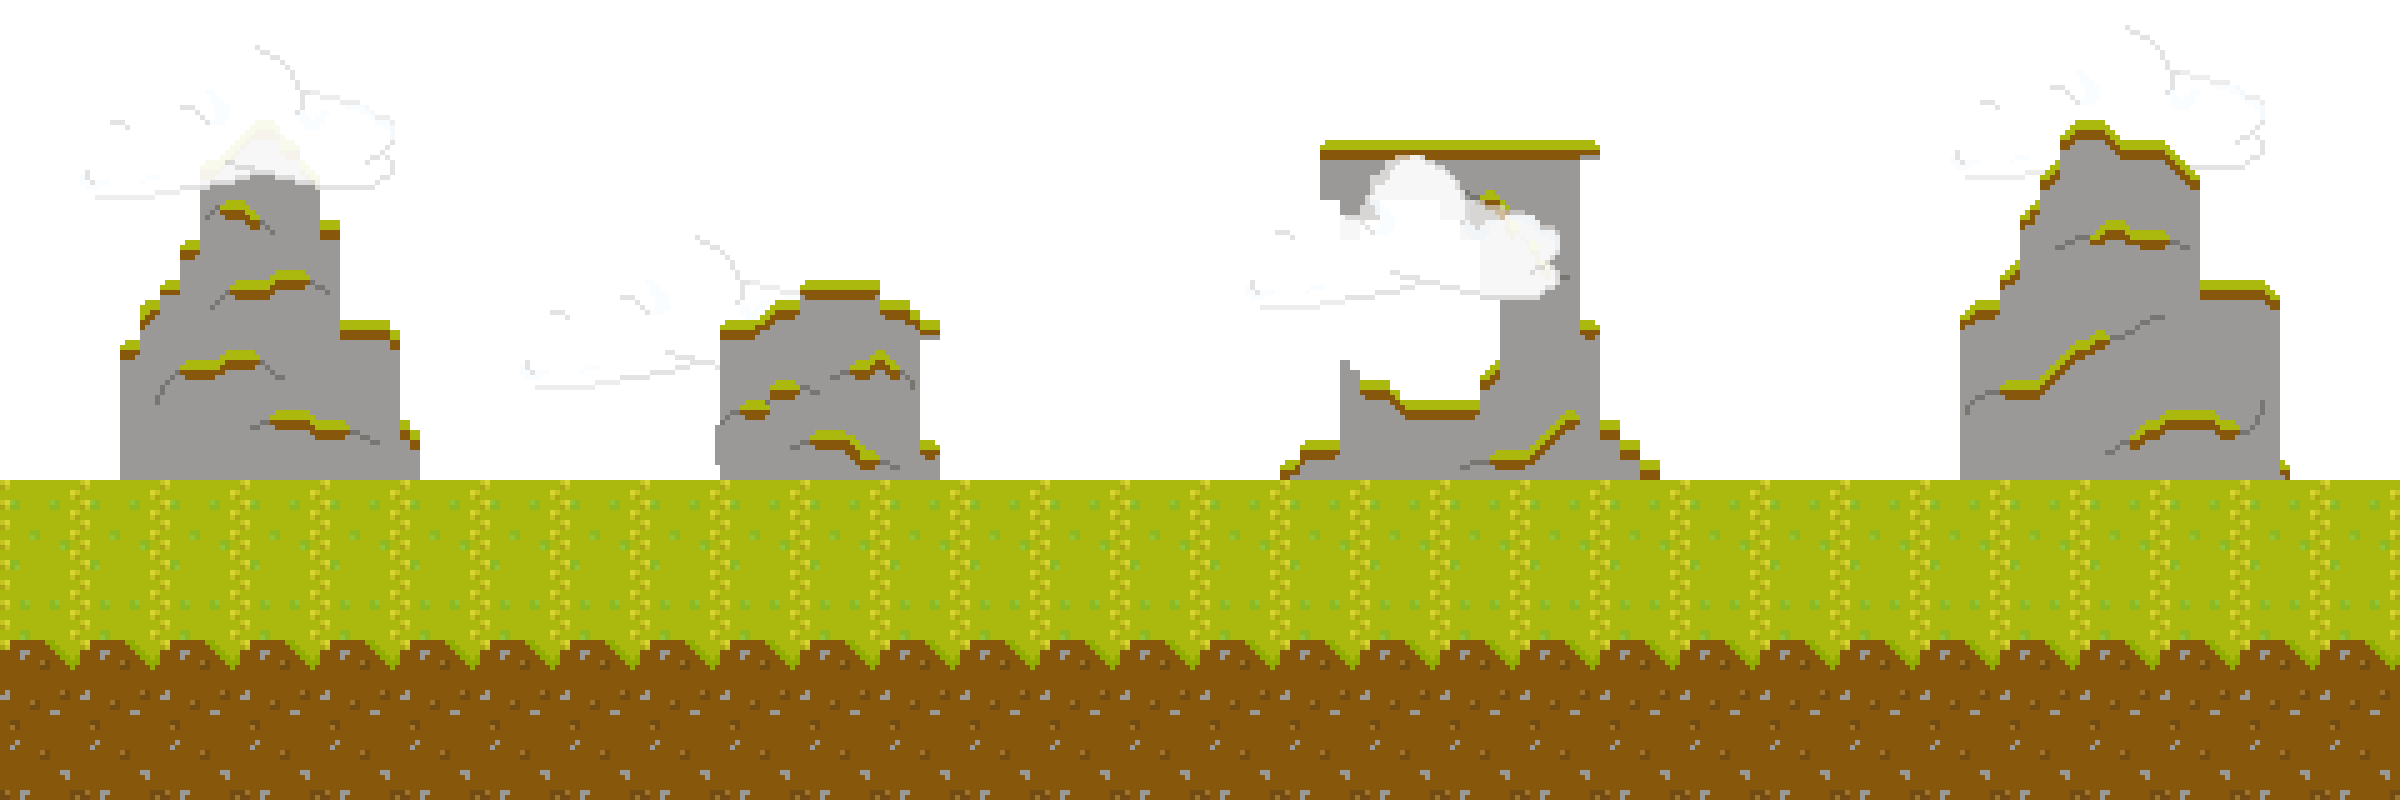
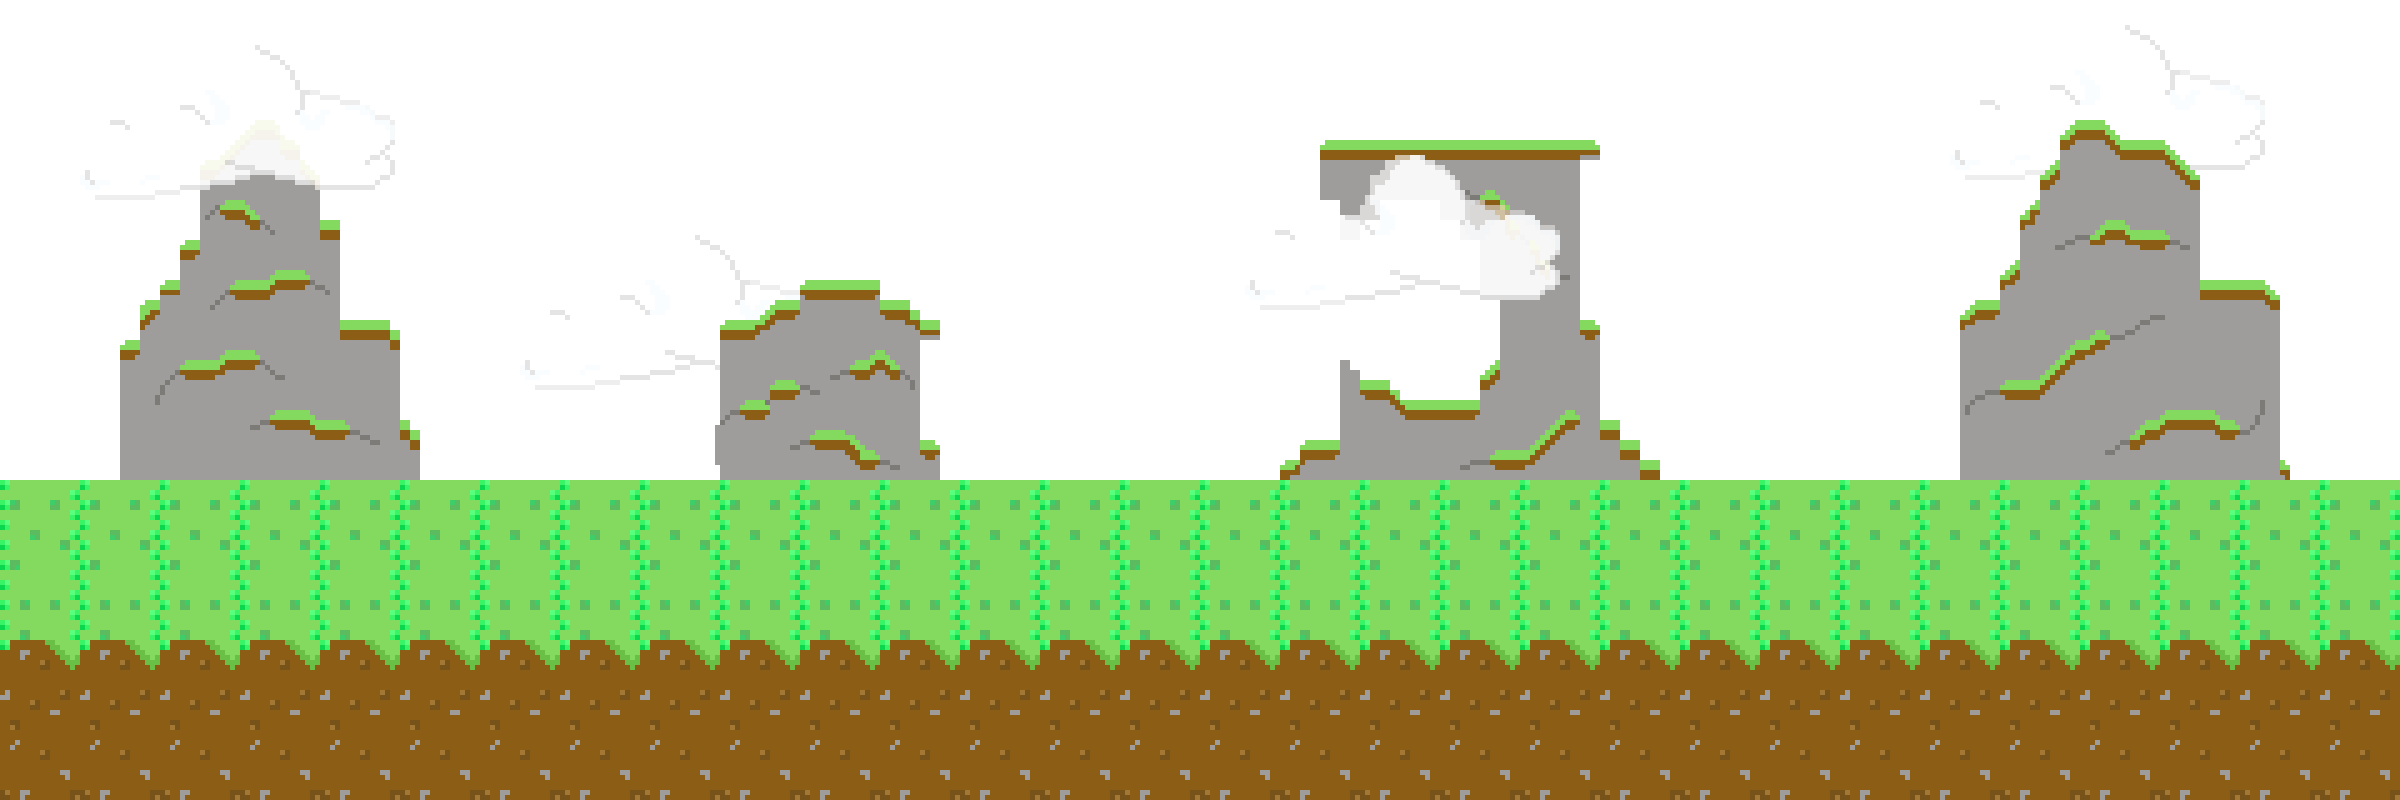
Toques finales
Añadido enemigo volador
Cambio en paletas de colores
Mejoras de accesibilidad

diff --git a/enemigos.py b/enemigos.py
@@ -1,10 +1,18 @@
 import pygame
+import random
 gm= False
 posicionX = 1300
 w= 1200
 velocidad=0
 posicionX2=2700
+posicionY2 = 0
 play2= False
+reloj = 0
+actual = 0
+
+animacion = [pygame.image.load('Imagenes/Pajaro1.png'),
+                 pygame.image.load('Imagenes/Pajaro2.png')]
+
 def obtener(contador,play, gameover):
     global contadorNow,play2, gm
     contadorNow= contador
@@ -12,11 +20,12 @@ def obtener(contador,play, gameover):
     play2=play
         
 def reinicio(gameover):
-    global posicionX, posicionX2 
+    global posicionX, posicionX2, posicionY2 
     
     if gameover==True:
         posicionX = 1300
         posicionX2 = 2865
+        posicionY2 = random.randint(200, 400)
     
 
 class Piedra(pygame.sprite.Sprite):
@@ -41,24 +50,39 @@ class Piedra(pygame.sprite.Sprite):
 class Volador(pygame.sprite.Sprite):
     
     def __init__(self):    
-        global posicionX2, play
+        global posicionX2, posicionY2, play
         posicionX2=2865
+        posicionY2 = random.randint(200, 400)
+        print(posicionY2)
         super().__init__()
-        self.image = pygame.transform.scale(pygame.image.load('Imagenes/Piedra.png'), (100, 50))
+        self.image = pygame.transform.scale(pygame.image.load('Imagenes/Pajaro2.png'), (75, 87))
         self.rect = self.image.get_rect()    
-        self.rect.center = (posicionX2 , 400)  
+        self.rect.center = (posicionX2 , posicionY2)  
     
     def update(self):
             
-        global posicionX2, velocidad,contadorNow
-        self.rect.center = (posicionX2 , 400)  
+        global posicionX2, posicionY2, velocidad, contadorNow, reloj, actual
+        self.rect.center = (posicionX2 , posicionY2)  
         if contadorNow < 25 and play2 == True and gm==False:
             if posicionX2 <= -700:
                 posicionX2=2700
+                posicionY2 = random.randint(200, 400)
             posicionX2-=25
         elif play2 == True and gm == False:
             if posicionX2 <= -1200:
                 posicionX2=2700
+                posicionY2 = random.randint(200, 400)
             posicionX2-=38
+        
+        reloj += 1
+
+        if reloj >= 4:
+            actual += 1
+            reloj = 0
+            
+            if actual >= 2:
+                actual = 0
+        
+        self.image = pygame.transform.scale(animacion[actual], (75, 87))
         
         

diff --git a/main.py b/main.py
@@ -10,12 +10,14 @@ from enemigos import reinicio
 
 ###VARIABLES GLOBALES###
 #Recursos#
-fondo=pygame.image.load('Imagenes/Escenario.png')
-icono=pygame.image.load('Imagenes/Dino1idle.png')
+fondo=pygame.image.load('Imagenes/Fondo.png')
+icono=pygame.image.load('Imagenes/Piedra.png')
 #Colores#
-BlueSky= (44, 128, 201)
+BlueSky= (138, 220, 253)
 Orange= (255, 170, 79)
 BlueNigth= (29, 56, 145)
+Yellow = (224, 211, 27)
+Red = (197, 56, 13)
 Blanco = (255,255,255)
 Negro= (0,0,0)
 #Fuentes#
@@ -65,6 +67,8 @@ def recargaPantalla():
         
         Pantalla.blit(fondo, (x_relativa, 0))
         if play== False:
+            pygame.draw.rect(Pantalla, Yellow, [5, 55, 460, 230], 0)
+            pygame.draw.rect(Pantalla, Red, [10, 60, 450, 220], 0)
             MostrarTexto(Pantalla, consolas, "[Espacio]=Iniciar", Negro, 20, 190 ,133)
             MostrarTexto(Pantalla, consolas, "[Esc]=Salir", Negro, 20, 129 , 93)
             MostrarTexto(Pantalla, consolas, "[▼]=Agacharse", Negro, 20, 150 , 173)
@@ -80,18 +84,7 @@ def recargaPantalla():
         enemigos.draw(Pantalla)   
         sprites.draw(Pantalla)
         pygame.display.flip()
-        if play== False:
-            MostrarTexto(Pantalla, consolas, "[Espacio]=Iniciar", Negro, 20, 190 ,133)
-            MostrarTexto(Pantalla, consolas, "[Esc]=Salir", Negro, 20, 129 , 93)
-            MostrarTexto(Pantalla, consolas, "[▼]=Agacharse", Negro, 20, 150 , 173)
-            MostrarTexto(Pantalla, consolas, "[Espacio]=Iniciar", Blanco, 20, 190 ,130)
-            MostrarTexto(Pantalla, consolas, "[Esc]=Salir", Blanco, 20, 129 , 90)
-            MostrarTexto(Pantalla, consolas, "[▼]=Agacharse", Blanco, 20, 150 , 170)
-            MostrarTexto(Pantalla, consolas, "[p]=♪+ Subir Volumen", Negro, 20, 220 , 213)
-            MostrarTexto(Pantalla, consolas, "[p]=♪+ Subir Volumen", Blanco, 20, 220 , 210)
-            MostrarTexto(Pantalla, consolas, "[o]=♪- Bajar Volumen", Negro, 20, 220 , 253)
-            MostrarTexto(Pantalla, consolas, "[o]=♪- Bajar Volumen", Blanco, 20, 220 , 250)
-            
+        
     if play == True and gameover==False:
         if cambio ==0:
             cambio=18
